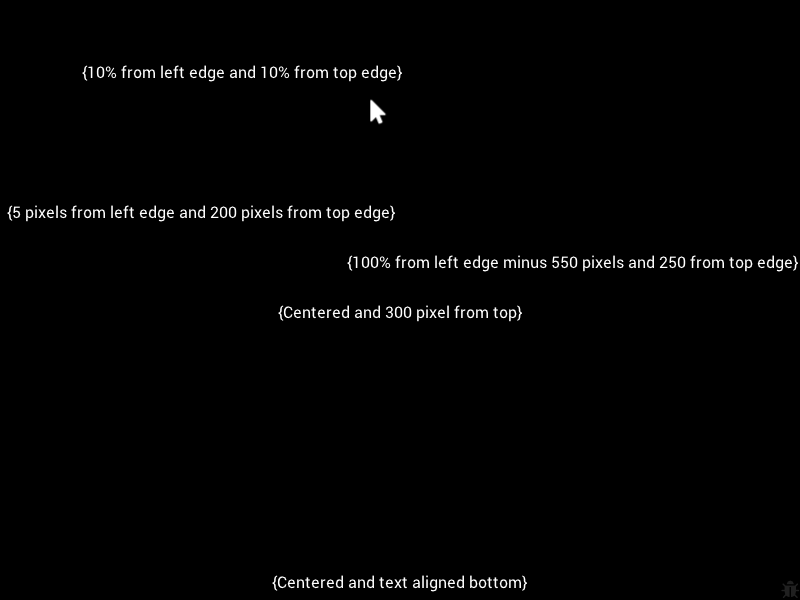
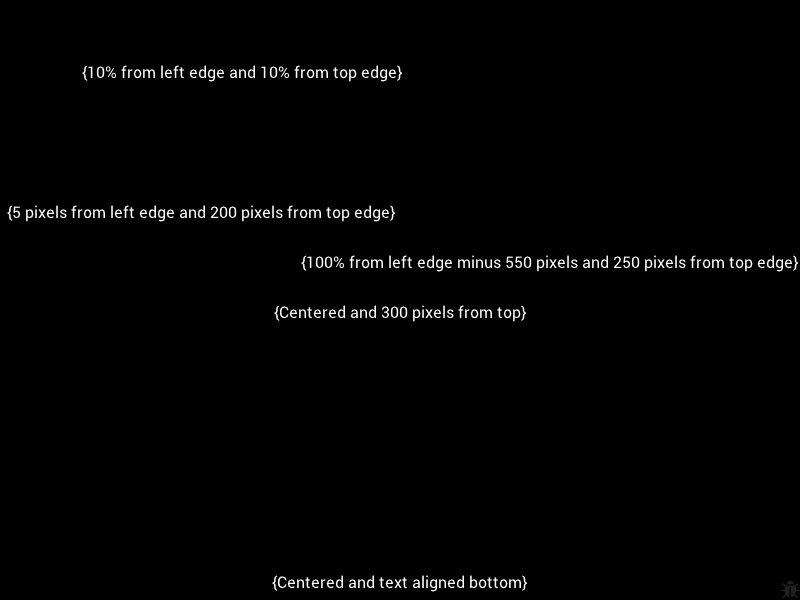
Typos

Changed region(s): [[0.375, 0.42, 0.875, 0.45], [0.3438, 0.51, 0.6562, 0.54], [0.4375, 0.18, 0.5, 0.21]]

diff --git a/src/example/UnitsEx.cpp b/src/example/UnitsEx.cpp
@@ -28,8 +28,8 @@ UnitsEx::UnitsEx() :
 bool UnitsEx::init(Composite& rootNode) {
 	rootNode.add(MakeTextLabel("{10% from left edge and 10% from top edge}", CoordPercent(0.1f, 0.1f), CoordPX(400, 30), FontType::Normal, UnitPT(16.0f)));
 	rootNode.add(MakeTextLabel("{5 pixels from left edge and 200 pixels from top edge}", CoordPX(5,200), CoordPX(400, 30), FontType::Normal, UnitPT(16.0f)));
-	rootNode.add(MakeTextLabel("{100% from left edge minus 550 pixels and 250 from top edge}", CoordPerPX(1.0f, 0.0f, -550, 250), CoordPX(550, 30), FontType::Normal, UnitPT(16.0f),COLOR_WHITE,HorizontalAlignment::Right,VerticalAlignment::Top));
-	TextLabelPtr label1 =MakeTextLabel("{Centered and 300 pixel from top}", CoordPerPX(0.5,0,0,300), CoordPX(300, 30), FontType::Normal, UnitPT(16.0f), COLOR_WHITE, HorizontalAlignment::Center, VerticalAlignment::Top);
+	rootNode.add(MakeTextLabel("{100% from left edge minus 550 pixels and 250 pixels from top edge}", CoordPerPX(1.0f, 0.0f, -550, 250), CoordPX(550, 30), FontType::Normal, UnitPT(16.0f),COLOR_WHITE,HorizontalAlignment::Right,VerticalAlignment::Top));
+	TextLabelPtr label1 =MakeTextLabel("{Centered and 300 pixels from top}", CoordPerPX(0.5,0,0,300), CoordPX(300, 30), FontType::Normal, UnitPT(16.0f), COLOR_WHITE, HorizontalAlignment::Center, VerticalAlignment::Top);
 	label1->setOrigin(Origin::TopCenter);
 	rootNode.add(label1);
 	TextLabelPtr label2 = MakeTextLabel("{Centered and text aligned bottom}", CoordPercent(0.5, 1.0), CoordPX(300, 30), FontType::Normal, UnitPT(16.0f), COLOR_WHITE, HorizontalAlignment::Center, VerticalAlignment::Top);

diff --git a/README.md b/README.md
@@ -47,7 +47,7 @@ Alloy is yet another 2D/3D graphics library written in C++11. As mundane as that
 - 2D physics (box2D)
 
 ## Dependencies
-GLFW and GLEW. Source code for all other libraries is included in the repository and cross-compiles on windows and linux.
+GLFW 3.1+ and GLEW. Source code for all other libraries is included in the repository and cross-compiles on windows and linux.
 
 ## License
 Alloy is <B>BSD licensed</B> and only uses libraries that also have a permissive license for commercial and academic use.
